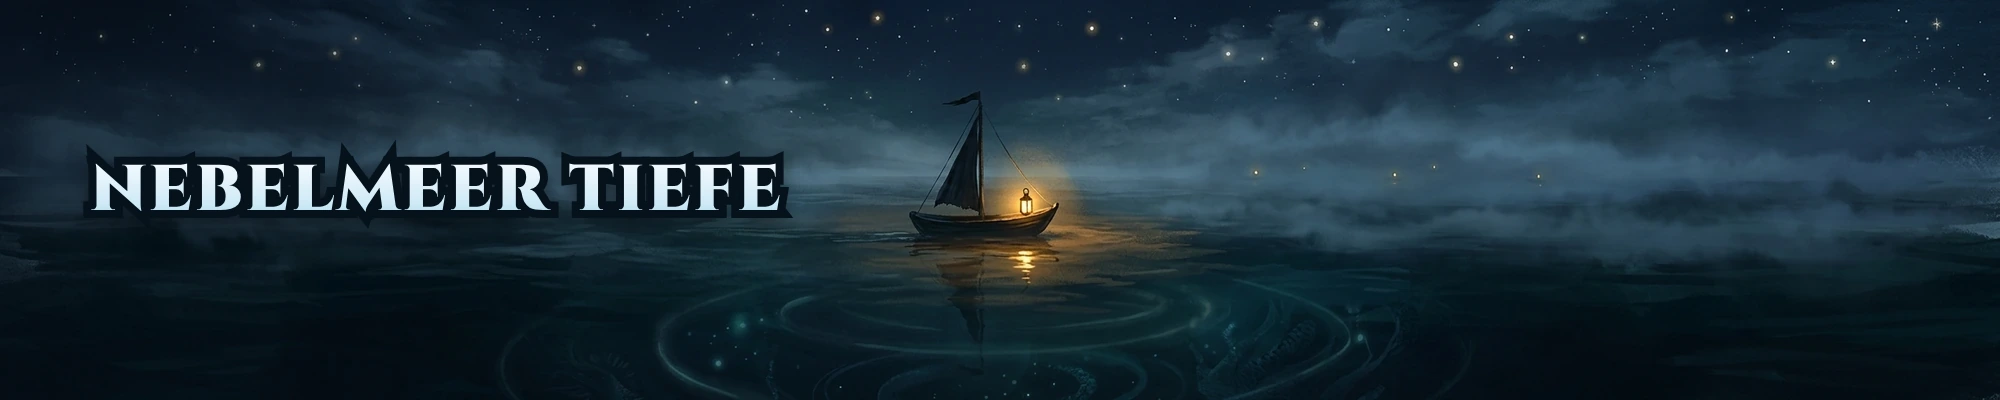
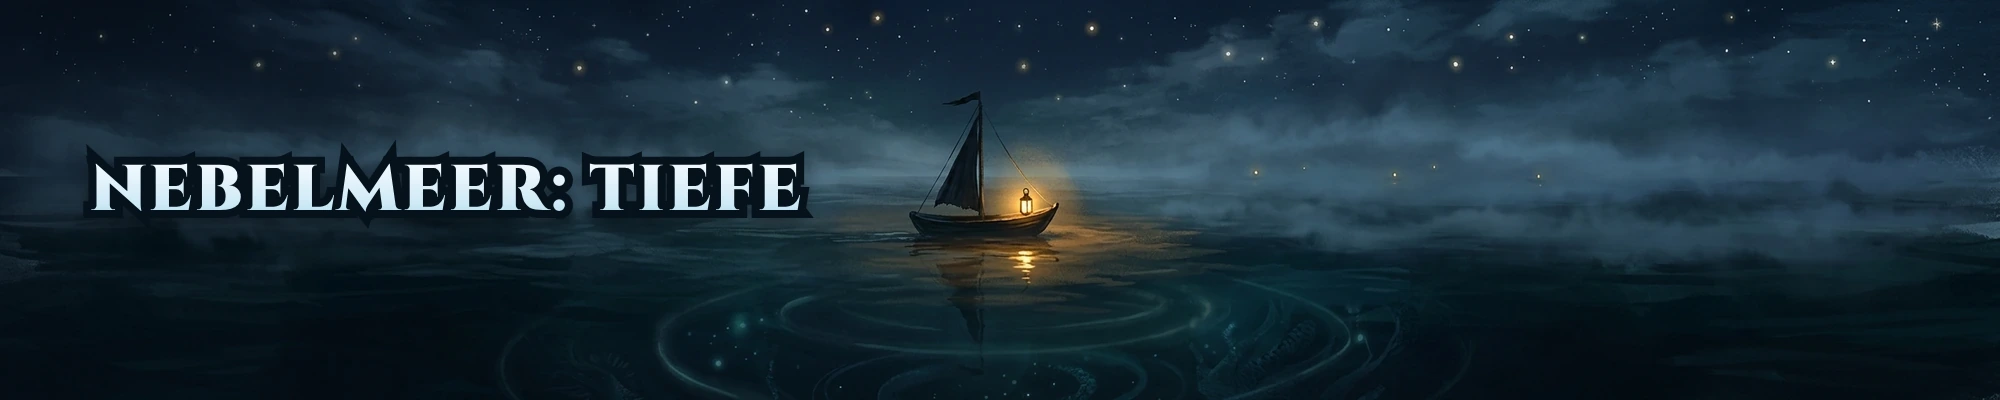
Minor: Nebelmeer: Tiefe mit zwei Screenshots, Name wie auf der Spielseite
Claude-Session: https://claude.ai/code/session_01QqVFR4XcLXcufKkRsvnfj7

Changed region(s): [[0.248, 0.36, 0.403, 0.54]]

diff --git a/README.md b/README.md
@@ -107,7 +107,7 @@ Jedes Spiel hat in `games.json` ein `icon` (1:1, 512 px, für Kacheln und Biblio
 
 Die Wallpapers ohne Titel liegen in `grafik/wallpaper-ohne-titel/`, die Varianten mit Titel in `grafik/wallpaper-mit-titel/` (diese sind dieselben Dateien, die im Hub liegen). Fehlt `wallpaper`, zeigt der Hub die alte Ansicht mit Screenshot (`banner`) bzw. gezeichnetem Platzhalter.
 
-Kein Icon ist KI-generiert. Die Icons von Tonlinge, Foil XI, Ball gegen Ball, Pizzafabrik, Business Empire, Spells, Zahlenwerk, Wasserschlacht, Tippspiel, Tierspiel und Cookie RNG 2 stammen aus den Favicons der Spiele selbst (Vektor bzw. Apple-Touch-Icon, auf 512 px gebracht, Rundungen entfernt). Die übrigen sieben sind aus dem echten Spielcode gerendert: das Spiel läuft lokal im Browser, die Zeichenfunktionen bzw. 3D-Modelle des Spiels werden aufgerufen und das Ergebnis mit einem Hintergrund zusammengesetzt. Schleimmerge (Schleime, Pilz, Schwert), Papierhelden (Held, Waffe, Splitter), ChessRNG (Figuren-Pfade), Erntezeit und Cookie RNG (Emoji des Spiels), Brutjagd (Ei und Tiere aus den three.js-Modellen), Fischerdock (Angler, Angel, Steg, Fisch, Boot und Palme aus den Spiel-Assets). Die früheren KI-Icons liegen in `grafik/icons-ki/`. Nebelmeer Tiefe hat ein selbst gezeichnetes Vektor-Icon (Quelle `grafik/icons-quellen/nebelmeer-icon.svg`, als 512-px-WebP gerendert), weil kein Spielcode zum Rendern vorliegt.
+Kein Icon ist KI-generiert. Die Icons von Tonlinge, Foil XI, Ball gegen Ball, Pizzafabrik, Business Empire, Spells, Zahlenwerk, Wasserschlacht, Tippspiel, Tierspiel und Cookie RNG 2 stammen aus den Favicons der Spiele selbst (Vektor bzw. Apple-Touch-Icon, auf 512 px gebracht, Rundungen entfernt). Die übrigen sieben sind aus dem echten Spielcode gerendert: das Spiel läuft lokal im Browser, die Zeichenfunktionen bzw. 3D-Modelle des Spiels werden aufgerufen und das Ergebnis mit einem Hintergrund zusammengesetzt. Schleimmerge (Schleime, Pilz, Schwert), Papierhelden (Held, Waffe, Splitter), ChessRNG (Figuren-Pfade), Erntezeit und Cookie RNG (Emoji des Spiels), Brutjagd (Ei und Tiere aus den three.js-Modellen), Fischerdock (Angler, Angel, Steg, Fisch, Boot und Palme aus den Spiel-Assets). Die früheren KI-Icons liegen in `grafik/icons-ki/`. Nebelmeer: Tiefe hat ein selbst gezeichnetes Vektor-Icon (Quelle `grafik/icons-quellen/nebelmeer-icon.svg`, als 512-px-WebP gerendert), weil kein Spielcode zum Rendern vorliegt.
 
 Der Spielname steht auf der Detailseite zusätzlich als Überschrift neben dem Icon, in derselben Schrift wie im Wallpaper. Die Schrift kommt aus dem Feld `schrift` in `games.json` (`familie`: fredoka, cinzel, lilita, anton, bangers, marker oder silkscreen; `versalien`; `abstand` in em). Die Schriftdateien liegen selbst gehostet in `public/fonts/`.
 
